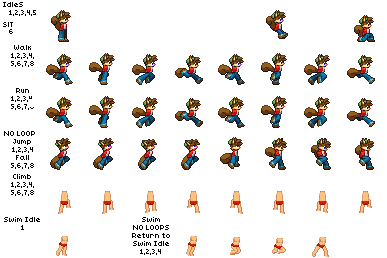
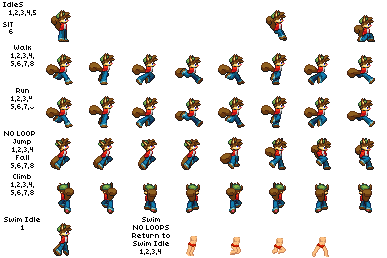
Small updates

diff --git a/README.md b/README.md
@@ -57,4 +57,12 @@ All other content is the property of their respective owners. Standard Starbound
     
     * Add scanner lore.
     
-    * Replace all instances of "sktest" with "midi" (the replacement batch file that came with the template only corrupted files by filling them with `{sktest=midi`).
+    * Make it so that when not firing, Midi's arms use the unarmed animation, and make the throwing animation actually look like throwing.
+    
+    * Fix Midi's nutbomb recipe not being unlocked from the beginning.
+    
+    * Have transphere tech active at start.
+    
+    * Create tech station graphics.
+    
+    * Find/make a new ship. 
